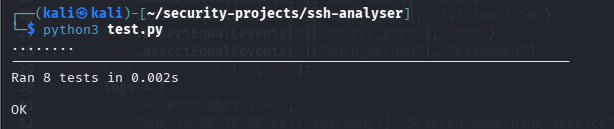
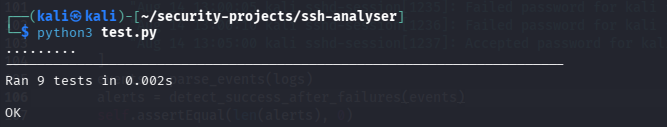
Added additional correlational logic to test.py

diff --git a/Python/test.py b/Python/test.py
@@ -95,5 +95,15 @@ class TestParser(unittest.TestCase):
         events = parse_events(logs)
         alerts = detect_success_after_failures(events)
         self.assertEqual(len(alerts), 0)
+    def test_success_after_old_failures(self):
+        logs = [
+            "Aug 14 13:00:00 kali sshd-session[1234]: Failed password for kali from 192.168.1.50 port 50000 ssh2",
+            "Aug 14 13:00:05 kali sshd-session[1235]: Failed password for kali from 192.168.1.50 port 50001 ssh2",
+            "Aug 14 13:00:10 kali sshd-session[1236]: Failed password for kali from 192.168.1.50 port 50002 ssh2",
+            "Aug 14 13:05:00 kali sshd-session[1237]: Accepted password for kali from 192.168.1.50 port 50003 ssh2"
+        ]
+        events = parse_events(logs)
+        alerts = detect_success_after_failures(events)
+        self.assertEqual(len(alerts), 0)
 if __name__ == "__main__":
     unittest.main()
